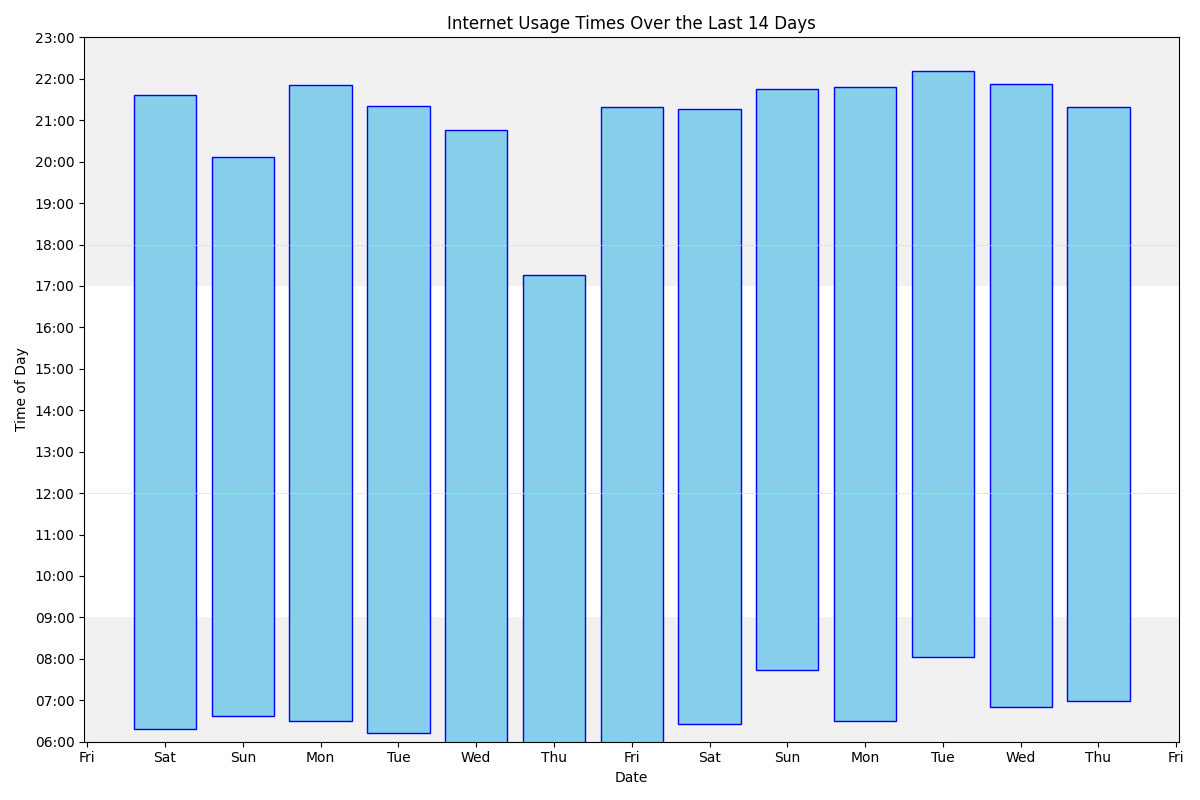
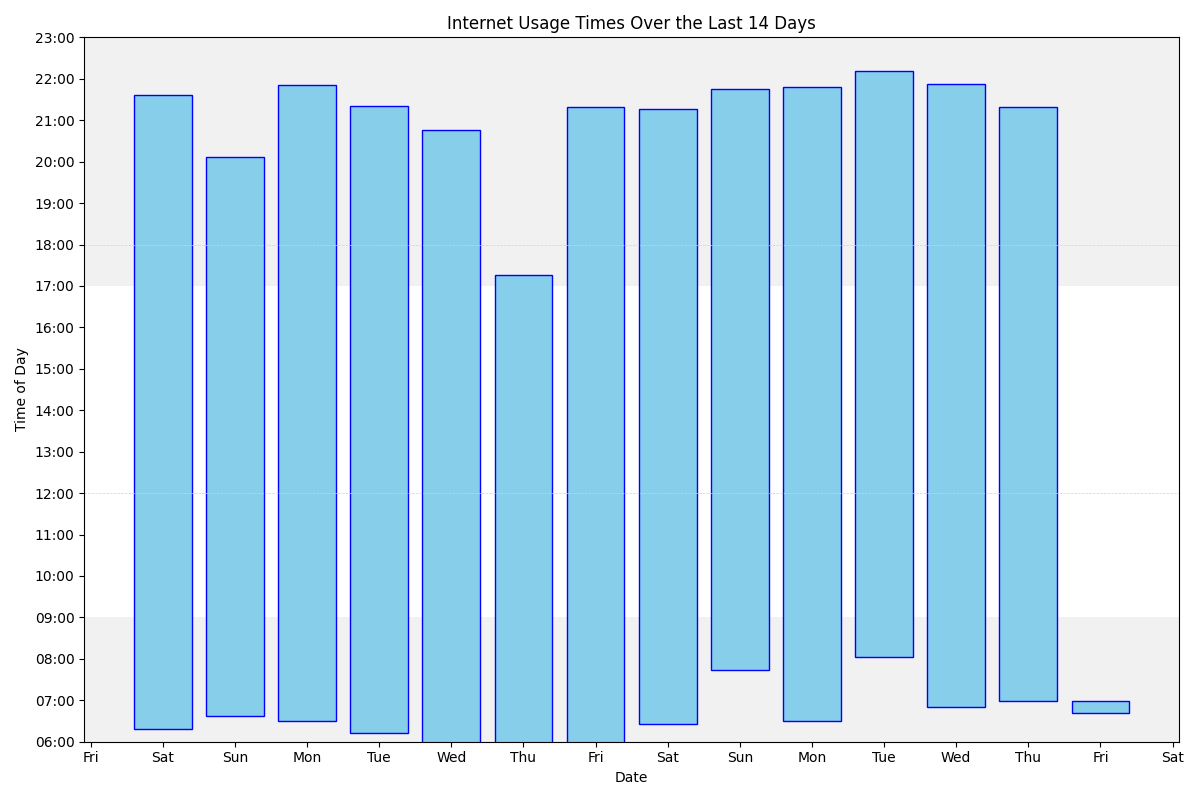
Update

diff --git a/index.md b/index.md
@@ -68,26 +68,26 @@ ul>li::after {
 <h3> Most common sites</h3>
 With number of accesses/minutes in parentheses
 
-<ol><li>www.google.com (2664)</li>
-<li>outlook.office.com (2202)</li>
-<li>mail.google.com (2039)</li>
+<ol><li>www.google.com (2663)</li>
+<li>outlook.office.com (2203)</li>
+<li>mail.google.com (2041)</li>
 <li>docs.google.com (1687)</li>
-<li>bsky.app (1348)</li>
-<li>outlook.office365.com (1230)</li>
-<li>www.facebook.com (1049)</li>
-<li>www.reddit.com (965)</li>
+<li>bsky.app (1349)</li>
+<li>outlook.office365.com (1231)</li>
+<li>www.facebook.com (1057)</li>
+<li>www.reddit.com (966)</li>
 <li>duckduckgo.com (742)</li>
 <li>www.amazon.co.uk (626)</li>
 <li>chatgpt.com (563)</li>
 <li>calendar.google.com (438)</li>
-<li>rhul-my.sharepoint.com (433)</li>
+<li>rhul-my.sharepoint.com (434)</li>
 <li>www.theguardian.com (389)</li>
 <li>www.linkedin.com (385)</li>
 <li>github.com (378)</li>
 <li>moodle.royalholloway.ac.uk (371)</li>
 <li>tvtropes.org (292)</li>
 <li>fritz.box (276)</li>
-<li>gmail.com (263)</li>
+<li>gmail.com (264)</li>
 <li>login.microsoftonline.com (257)</li>
 <li>web.whatsapp.com (239)</li>
 <li>feedly.com (235)</li>
@@ -104,7 +104,37 @@ With number of accesses/minutes in parentheses
 
 <ul></ul>
 
+<H3>Friday, 04/04/25</H3>
+
+<br>
+
+<ul><li> 13:04 rhul-my.sharepoint.com</li>
+</ul>
+
+<br>
+
+<ul><li> 06:58 www.facebook.com</li>
+<li> 06:58 bsky.app</li>
+<li> 06:53 www.reddit.com</li>
+<li> 06:52 mail.google.com</li>
+<li class='same'> 06:51 mail.google.com</li>
+<li> 06:51 gmail.com</li>
+<li> 06:49 www.facebook.com</li>
+<li class='same'> 06:48 www.facebook.com</li>
+<li class='same'> 06:47 www.facebook.com</li>
+<li class='same'> 06:46 www.facebook.com</li>
+<li class='same'> 06:45 www.facebook.com</li>
+<li class='same'> 06:44 www.facebook.com</li>
+<li class='same'> 06:41 www.facebook.com</li>
+<li> 06:41 outlook.office.com</li>
+<li> 06:41 outlook.office365.com</li>
+</ul>
+
 <H3>Thursday, 03/04/25</H3>
+
+<br>
+
+<ul></ul>
 
 <br>
 
@@ -20423,7 +20453,6 @@ With number of accesses/minutes in parentheses
 <li> 14:37 www.tesco.com</li>
 <li> 14:37 docs.google.com</li>
 <li> 14:36 www.ocado.com</li>
-<li> 14:36 www.google.com</li>
 <li> 14:36 zoom.ocado.com</li>
 <li> 14:36 www.google.com</li>
 <li class='same'> 14:32 www.google.com</li>
